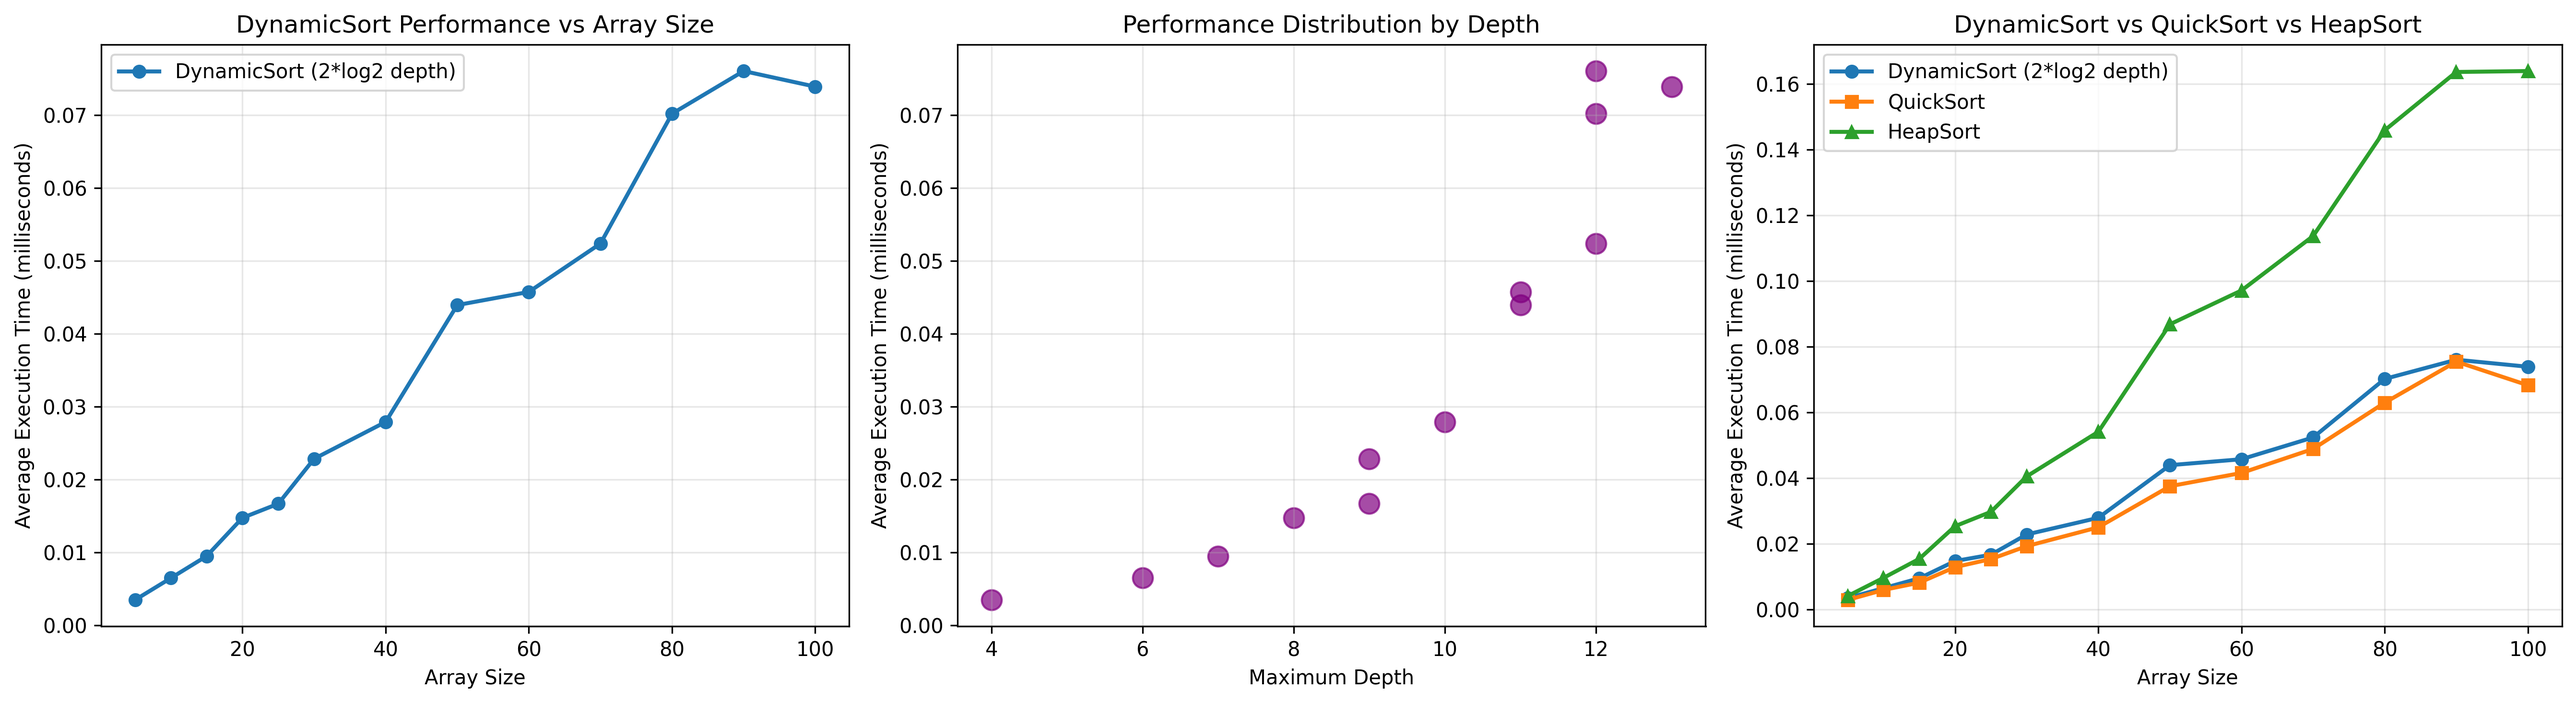
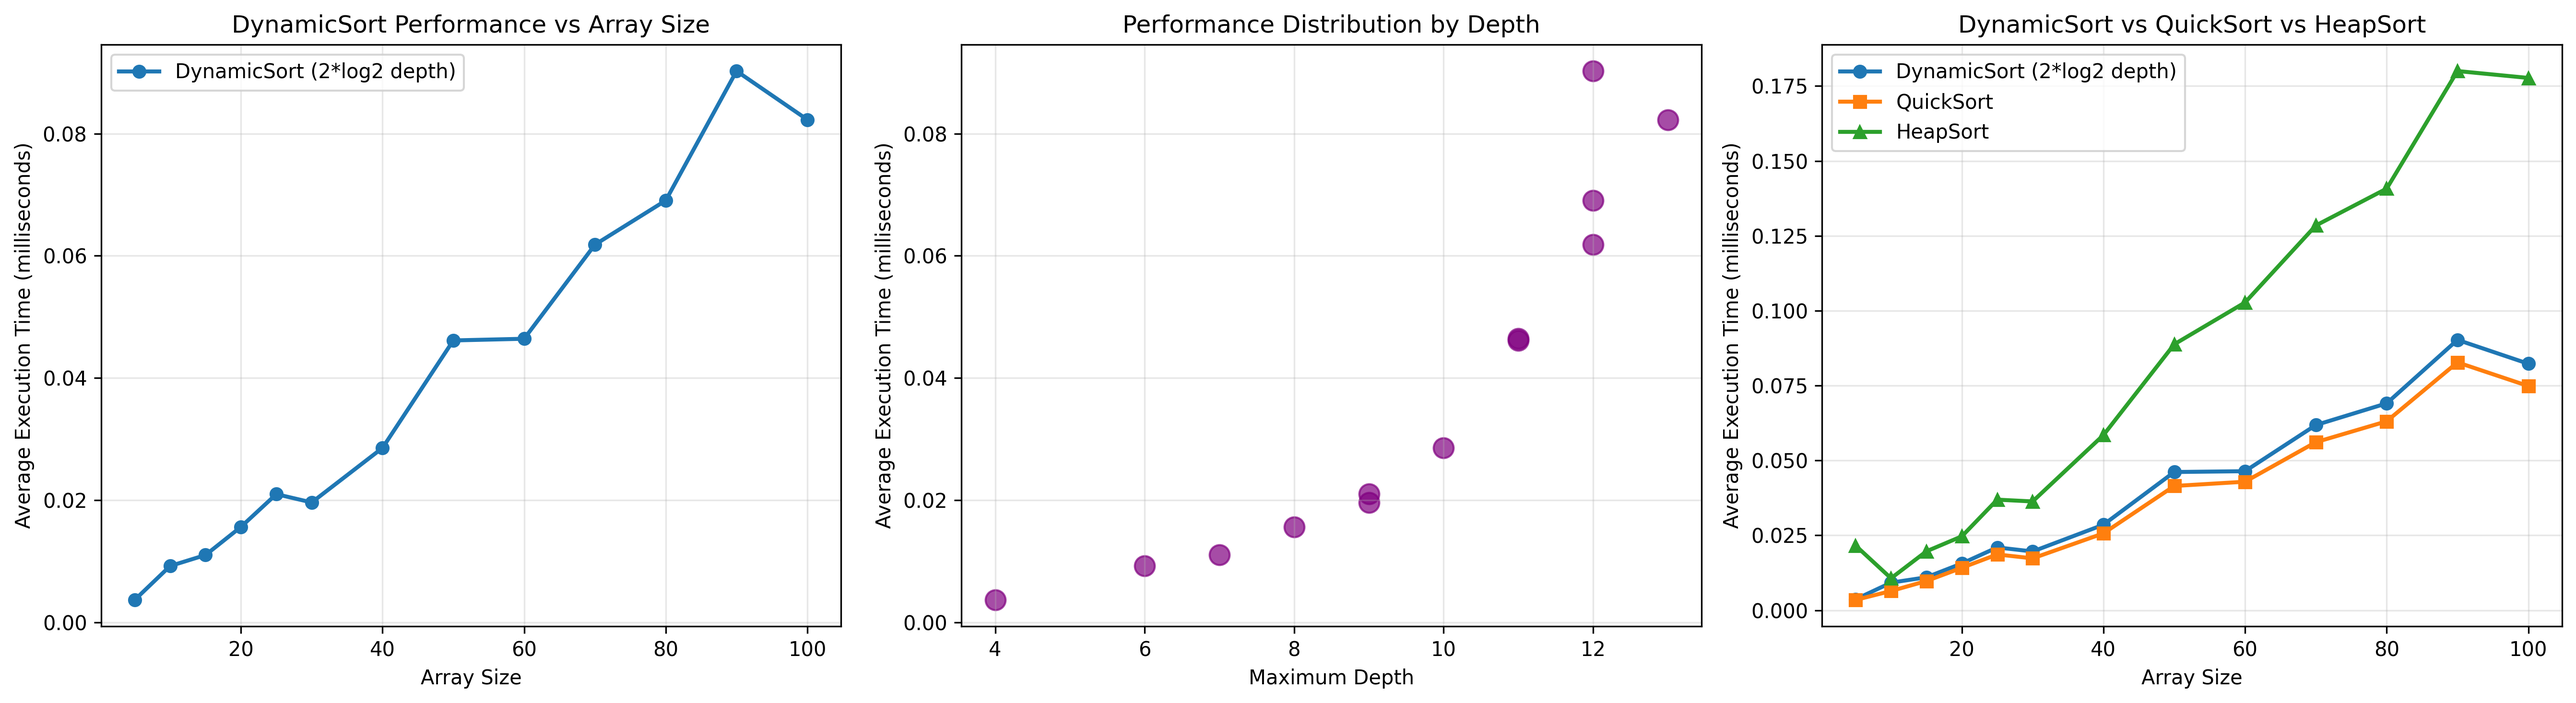
WIP

diff --git a/src/utils/Analysis/Analysis_Task1_log2.py b/src/utils/Analysis/Analysis_Task1_log2.py
@@ -73,8 +73,8 @@ def run_performance_test(sizes, num_tests=100):
     for size in sizes:
         print(f"Testing array size: {size}")
         
-        # Calculate depth based on 2 * log2 of list length
-        depth = int(2 * math.log2(size) + 5)
+        # Calculate depth based on log2 of list length
+        depth = int(math.log2(size))
         print(f"  Using depth: {depth} (log2 of {size})")
         
         test_cases = generate_test_data(size, num_tests)
@@ -163,7 +163,7 @@ def create_performance_graphs(results):
     plt.grid(True, alpha=0.3)
     
     plt.tight_layout()
-    plt.savefig('graphs/dynamicsort_2log2_depth.png', dpi=300, bbox_inches='tight')
+    plt.savefig('graphs/dynamicsort_log2_depth.png', dpi=300, bbox_inches='tight')
 
 def analyze_log2_depth():
     """Main analysis function"""
